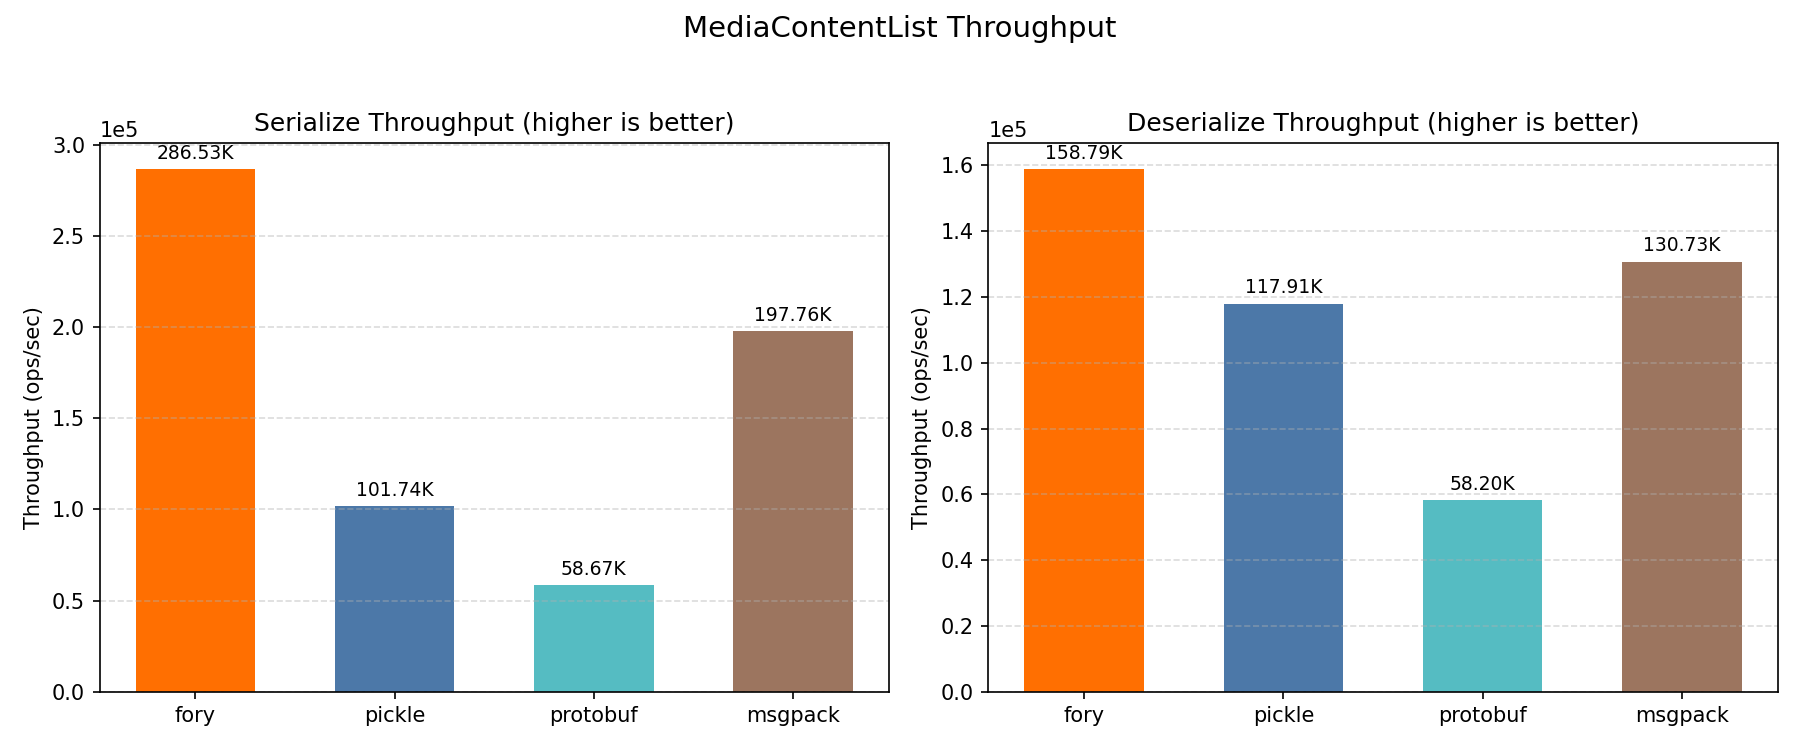
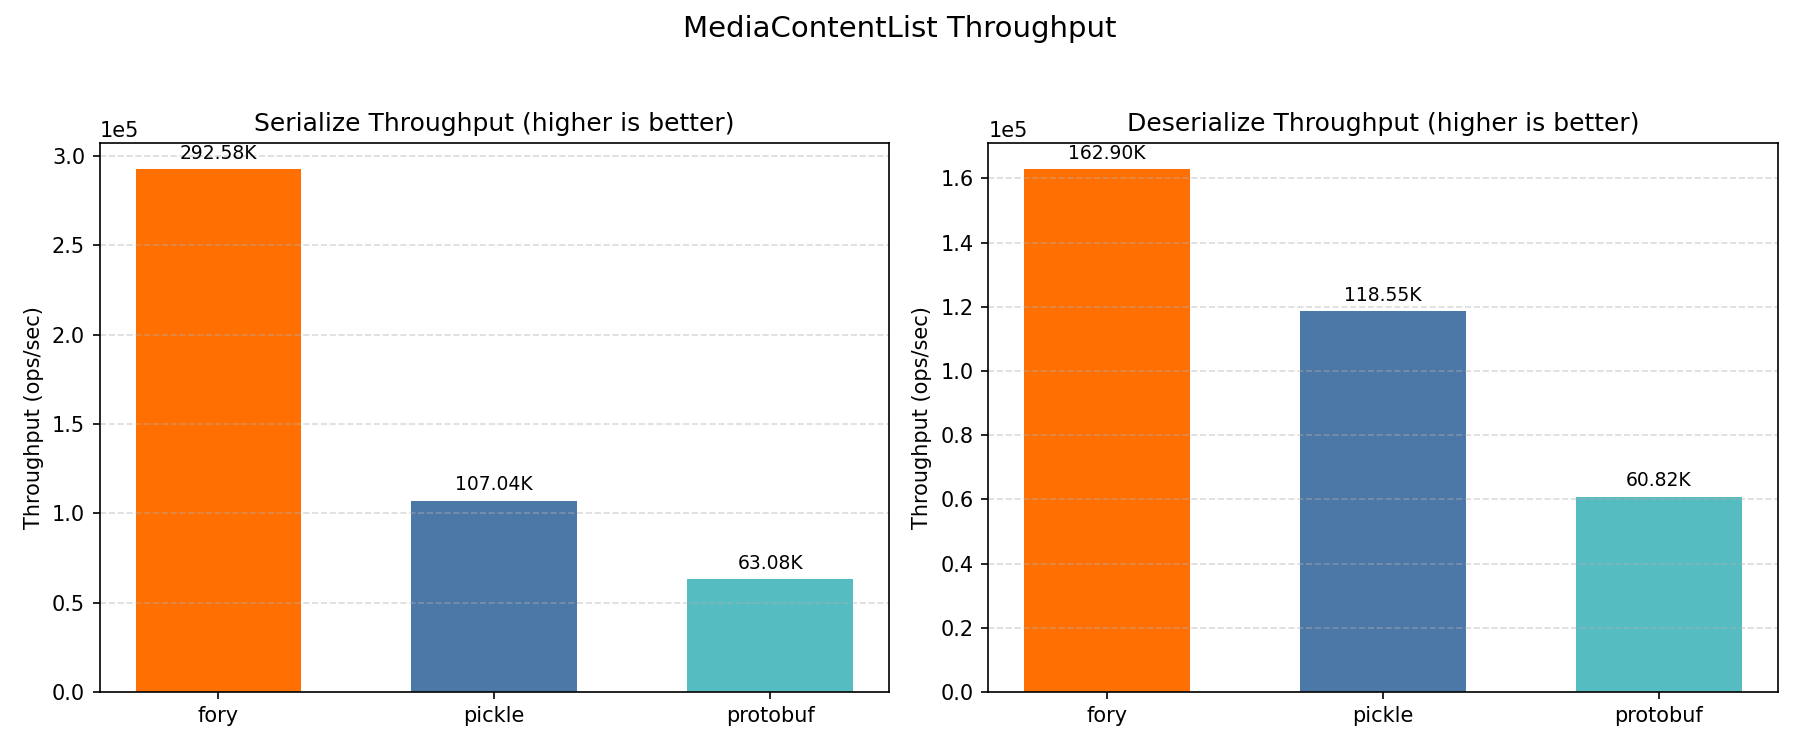
benchmarks: simplify python comparison to fory pickle protobuf

diff --git a/benchmarks/python/benchmark.py b/benchmarks/python/benchmark.py
@@ -21,7 +21,7 @@
 This script mirrors `benchmarks/cpp/benchmark.cc` coverage and benchmarks:
 - Data types: Struct, Sample, MediaContent and corresponding *List variants.
 - Operations: serialize / deserialize.
-- Serializers: fory / pickle / protobuf / msgpack.
+- Serializers: fory / pickle / protobuf.
 
 Results are written as JSON and consumed by `benchmark_report.py`.
 """
@@ -29,7 +29,7 @@ Results are written as JSON and consumed by `benchmark_report.py`.
 from __future__ import annotations
 
 import argparse
-from dataclasses import asdict, dataclass, fields, is_dataclass
+from dataclasses import dataclass
 import json
 import os
 import pickle
@@ -42,11 +42,6 @@ from typing import Any, Callable, Dict, Iterable, List, Tuple
 
 import pyfory
 
-try:
-    import msgpack
-except ImportError:
-    msgpack = None
-
 
 LIST_SIZE = 5
 DATA_TYPE_ORDER = [
@@ -57,7 +52,7 @@ DATA_TYPE_ORDER = [
     "samplelist",
     "mediacontentlist",
 ]
-SERIALIZER_ORDER = ["fory", "pickle", "protobuf", "msgpack"]
+SERIALIZER_ORDER = ["fory", "pickle", "protobuf"]
 OPERATION_ORDER = ["serialize", "deserialize"]
 
 DATA_LABELS = {
@@ -72,7 +67,6 @@ SERIALIZER_LABELS = {
     "fory": "Fory",
     "pickle": "Pickle",
     "protobuf": "Protobuf",
-    "msgpack": "Msgpack",
 }
 
 
@@ -482,34 +476,6 @@ PROTO_CONVERTERS = {
 }
 
 
-def dataclass_to_msgpack_dict(obj: Any) -> Any:
-    if is_dataclass(obj):
-        # Base conversion via dataclasses.asdict as requested.
-        converted = asdict(obj)
-
-        # Explicitly rewrite nested dataclass fields with recursive conversion to ensure
-        # nested objects are represented as dict payloads expected by msgpack.
-        for field in fields(obj):
-            field_value = getattr(obj, field.name)
-            if is_dataclass(field_value):
-                converted[field.name] = dataclass_to_msgpack_dict(field_value)
-            elif isinstance(field_value, list):
-                converted[field.name] = [
-                    dataclass_to_msgpack_dict(item) for item in field_value
-                ]
-            elif isinstance(field_value, dict):
-                converted[field.name] = {
-                    key: dataclass_to_msgpack_dict(value)
-                    for key, value in field_value.items()
-                }
-        return converted
-    if isinstance(obj, list):
-        return [dataclass_to_msgpack_dict(item) for item in obj]
-    if isinstance(obj, dict):
-        return {key: dataclass_to_msgpack_dict(value) for key, value in obj.items()}
-    return obj
-
-
 def build_fory() -> pyfory.Fory:
     fory = pyfory.Fory(xlang=True, compatible=True, ref=False)
     fory.register_type(NumericStruct, type_id=1)
@@ -587,18 +553,6 @@ def protobuf_deserialize(bench_pb2, datatype: str, binary: bytes) -> None:
     from_pb(pb_obj)
 
 
-def msgpack_serialize_dict(obj: Dict[str, Any]) -> None:
-    if msgpack is None:
-        raise RuntimeError("msgpack is not installed")
-    msgpack.packb(obj, use_bin_type=True)
-
-
-def msgpack_deserialize_dict(binary: bytes) -> None:
-    if msgpack is None:
-        raise RuntimeError("msgpack is not installed")
-    msgpack.unpackb(binary, raw=False, strict_map_key=False)
-
-
 def benchmark_name(serializer: str, datatype: str, operation: str) -> str:
     return f"BM_{SERIALIZER_LABELS[serializer]}_{DATA_LABELS[datatype]}_{operation.capitalize()}"
 
@@ -608,7 +562,6 @@ def build_case(
     operation: str,
     datatype: str,
     obj: Any,
-    msgpack_obj: Dict[str, Any],
     *,
     fory: pyfory.Fory,
     bench_pb2,
@@ -630,21 +583,12 @@ def build_case(
         pb_binary = to_pb(bench_pb2, obj).SerializeToString()
         return protobuf_deserialize, (bench_pb2, datatype, pb_binary)
 
-    if serializer == "msgpack":
-        if msgpack is None:
-            raise RuntimeError("msgpack is not installed. Install with: pip install msgpack")
-        if operation == "serialize":
-            return msgpack_serialize_dict, (msgpack_obj,)
-        binary = msgpack.packb(msgpack_obj, use_bin_type=True)
-        return msgpack_deserialize_dict, (binary,)
-
     raise ValueError(f"Unsupported serializer: {serializer}")
 
 
 def calculate_serialized_sizes(
     benchmark_data: Dict[str, Any],
     selected_datatypes: Iterable[str],
-    msgpack_data: Dict[str, Dict[str, Any]],
     *,
     fory: pyfory.Fory,
     bench_pb2,
@@ -659,14 +603,6 @@ def calculate_serialized_sizes(
 
         to_pb, _, _ = PROTO_CONVERTERS[datatype]
         datatype_sizes["protobuf"] = len(to_pb(bench_pb2, obj).SerializeToString())
-
-        if msgpack is not None:
-            msgpack_payload = msgpack_data[datatype]
-            datatype_sizes["msgpack"] = len(
-                msgpack.packb(msgpack_payload, use_bin_type=True)
-            )
-        else:
-            datatype_sizes["msgpack"] = -1
 
         sizes[datatype] = datatype_sizes
     return sizes
@@ -699,7 +635,7 @@ def benchmark_number(base_number: int, datatype: str) -> int:
 
 def parse_args() -> argparse.Namespace:
     parser = argparse.ArgumentParser(
-        description="Comprehensive Fory/Pickle/Protobuf/Msgpack benchmark for Python"
+        description="Comprehensive Fory/Pickle/Protobuf benchmark for Python"
     )
     parser.add_argument(
         "--operation",
@@ -715,7 +651,7 @@ def parse_args() -> argparse.Namespace:
     parser.add_argument(
         "--serializer",
         default="all",
-        help="Comma-separated serializers: fory,pickle,protobuf,msgpack or all",
+        help="Comma-separated serializers: fory,pickle,protobuf or all",
     )
     parser.add_argument(
         "--warmup",
@@ -768,14 +704,7 @@ def main() -> int:
         OPERATION_ORDER if args.operation == "all" else [args.operation]
     )
 
-    if msgpack is None and "msgpack" in selected_serializers:
-        raise RuntimeError("msgpack is not installed. Install with: pip install msgpack")
-
     benchmark_data = create_benchmark_data()
-    msgpack_data = {
-        datatype: dataclass_to_msgpack_dict(obj)
-        for datatype, obj in benchmark_data.items()
-    }
     fory = build_fory()
 
     print(
@@ -792,7 +721,6 @@ def main() -> int:
 
     for datatype in selected_datatypes:
         obj = benchmark_data[datatype]
-        msgpack_obj = msgpack_data[datatype]
         call_number = benchmark_number(args.number, datatype)
         for operation in selected_operations:
             for serializer in selected_serializers:
@@ -804,7 +732,6 @@ def main() -> int:
                     operation,
                     datatype,
                     obj,
-                    msgpack_obj,
                     fory=fory,
                     bench_pb2=bench_pb2,
                 )
@@ -835,7 +762,6 @@ def main() -> int:
     sizes = calculate_serialized_sizes(
         benchmark_data,
         selected_datatypes,
-        msgpack_data,
         fory=fory,
         bench_pb2=bench_pb2,
     )

diff --git a/benchmarks/python/benchmark_report.py b/benchmarks/python/benchmark_report.py
@@ -44,14 +44,12 @@ COLORS = {
     "fory": "#FF6F01",
     "pickle": "#4C78A8",
     "protobuf": "#55BCC2",
-    "msgpack": "#9C755F",
 }
-SERIALIZER_ORDER = ["fory", "pickle", "protobuf", "msgpack"]
+SERIALIZER_ORDER = ["fory", "pickle", "protobuf"]
 SERIALIZER_LABELS = {
     "fory": "fory",
     "pickle": "pickle",
     "protobuf": "protobuf",
-    "msgpack": "msgpack",
 }
 DATATYPE_ORDER = [
     "struct",
@@ -330,11 +328,9 @@ def generate_markdown_report(raw, data, sizes, plot_images, output_dir: Path, pl
     md.append("\n## Benchmark Results\n\n")
     md.append("### Timing Results (nanoseconds)\n\n")
     md.append(
-        "| Datatype | Operation | fory (ns) | pickle (ns) | protobuf (ns) | msgpack (ns) | Fastest |\n"
+        "| Datatype | Operation | fory (ns) | pickle (ns) | protobuf (ns) | Fastest |\n"
     )
-    md.append(
-        "|----------|-----------|-----------|-------------|---------------|--------------|---------|\n"
-    )
+    md.append("|----------|-----------|-----------|-------------|---------------|---------|\n")
 
     for datatype in datatypes:
         for operation in operations:
@@ -356,11 +352,9 @@ def generate_markdown_report(raw, data, sizes, plot_images, output_dir: Path, pl
 
     md.append("\n### Throughput Results (ops/sec)\n\n")
     md.append(
-        "| Datatype | Operation | fory TPS | pickle TPS | protobuf TPS | msgpack TPS | Fastest |\n"
+        "| Datatype | Operation | fory TPS | pickle TPS | protobuf TPS | Fastest |\n"
     )
-    md.append(
-        "|----------|-----------|----------|------------|--------------|-------------|---------|\n"
-    )
+    md.append("|----------|-----------|----------|------------|--------------|---------|\n")
 
     for datatype in datatypes:
         for operation in operations:
@@ -383,8 +377,8 @@ def generate_markdown_report(raw, data, sizes, plot_images, output_dir: Path, pl
 
     if sizes:
         md.append("\n### Serialized Data Sizes (bytes)\n\n")
-        md.append("| Datatype | fory | pickle | protobuf | msgpack |\n")
-        md.append("|----------|------|--------|----------|---------|\n")
+        md.append("| Datatype | fory | pickle | protobuf |\n")
+        md.append("|----------|------|--------|----------|\n")
 
         for datatype in datatypes:
             datatype_sizes = sizes.get(datatype, {})

diff --git a/docs/benchmarks/python/README.md b/docs/benchmarks/python/README.md
@@ -1,6 +1,6 @@
 # Python Benchmark Performance Report
 
-_Generated on 2026-03-03 13:02:52_
+_Generated on 2026-03-03 13:42:38_
 
 ## How to Generate This Report
 
@@ -83,45 +83,45 @@ All plots show throughput (ops/sec); higher is better.
 
 ### Timing Results (nanoseconds)
 
-| Datatype | Operation | fory (ns) | pickle (ns) | protobuf (ns) | msgpack (ns) | Fastest |
-|----------|-----------|-----------|-------------|---------------|--------------|---------|
-| Struct | Serialize | 436.2 | 895.5 | 575.3 | 462.8 | fory |
-| Struct | Deserialize | 536.8 | 953.0 | 761.7 | 417.8 | msgpack |
-| Sample | Serialize | 863.0 | 1791.5 | 2514.6 | 1534.2 | fory |
-| Sample | Deserialize | 1305.4 | 2320.1 | 3947.5 | 1606.9 | fory |
-| MediaContent | Serialize | 1163.5 | 2937.2 | 2973.8 | 1221.2 | fory |
-| MediaContent | Deserialize | 1798.4 | 2909.2 | 3481.2 | 1620.5 | msgpack |
-| StructList | Serialize | 1125.4 | 2852.6 | 3578.3 | 1448.7 | fory |
-| StructList | Deserialize | 1469.5 | 2667.7 | 3790.0 | 1791.1 | fory |
-| SampleList | Serialize | 2992.8 | 5633.1 | 15303.2 | 6482.0 | fory |
-| SampleList | Deserialize | 6015.3 | 8346.1 | 20112.7 | 8273.3 | fory |
-| MediaContentList | Serialize | 3490.1 | 9829.4 | 17044.7 | 5056.6 | fory |
-| MediaContentList | Deserialize | 6297.6 | 8481.2 | 17182.2 | 7649.3 | fory |
+| Datatype | Operation | fory (ns) | pickle (ns) | protobuf (ns) | Fastest |
+|----------|-----------|-----------|-------------|---------------|---------|
+| Struct | Serialize | 417.9 | 868.9 | 548.9 | fory |
+| Struct | Deserialize | 516.1 | 910.6 | 742.4 | fory |
+| Sample | Serialize | 828.1 | 1663.5 | 2383.7 | fory |
+| Sample | Deserialize | 1282.4 | 2296.3 | 3992.7 | fory |
+| MediaContent | Serialize | 1139.9 | 2859.7 | 2867.1 | fory |
+| MediaContent | Deserialize | 1719.5 | 2854.3 | 3236.1 | fory |
+| StructList | Serialize | 1009.1 | 2630.6 | 3281.6 | fory |
+| StructList | Deserialize | 1387.2 | 2651.9 | 3547.9 | fory |
+| SampleList | Serialize | 2828.3 | 5541.0 | 15256.6 | fory |
+| SampleList | Deserialize | 5043.4 | 8144.7 | 18912.5 | fory |
+| MediaContentList | Serialize | 3417.9 | 9341.9 | 15853.2 | fory |
+| MediaContentList | Deserialize | 6138.7 | 8435.3 | 16442.6 | fory |
 
 ### Throughput Results (ops/sec)
 
-| Datatype | Operation | fory TPS | pickle TPS | protobuf TPS | msgpack TPS | Fastest |
-|----------|-----------|----------|------------|--------------|-------------|---------|
-| Struct | Serialize | 2,292,488 | 1,116,754 | 1,738,244 | 2,160,781 | fory |
-| Struct | Deserialize | 1,862,990 | 1,049,336 | 1,312,890 | 2,393,315 | msgpack |
-| Sample | Serialize | 1,158,735 | 558,207 | 397,674 | 651,801 | fory |
-| Sample | Deserialize | 766,038 | 431,015 | 253,323 | 622,315 | fory |
-| MediaContent | Serialize | 859,477 | 340,462 | 336,268 | 818,835 | fory |
-| MediaContent | Deserialize | 556,050 | 343,741 | 287,254 | 617,109 | msgpack |
-| StructList | Serialize | 888,557 | 350,555 | 279,466 | 690,283 | fory |
-| StructList | Deserialize | 680,506 | 374,859 | 263,850 | 558,323 | fory |
-| SampleList | Serialize | 334,133 | 177,523 | 65,346 | 154,273 | fory |
-| SampleList | Deserialize | 166,244 | 119,817 | 49,720 | 120,871 | fory |
-| MediaContentList | Serialize | 286,529 | 101,735 | 58,669 | 197,760 | fory |
-| MediaContentList | Deserialize | 158,790 | 117,908 | 58,200 | 130,731 | fory |
+| Datatype | Operation | fory TPS | pickle TPS | protobuf TPS | Fastest |
+|----------|-----------|----------|------------|--------------|---------|
+| Struct | Serialize | 2,393,086 | 1,150,946 | 1,821,982 | fory |
+| Struct | Deserialize | 1,937,707 | 1,098,170 | 1,346,915 | fory |
+| Sample | Serialize | 1,207,542 | 601,144 | 419,511 | fory |
+| Sample | Deserialize | 779,789 | 435,489 | 250,460 | fory |
+| MediaContent | Serialize | 877,300 | 349,688 | 348,780 | fory |
+| MediaContent | Deserialize | 581,563 | 350,354 | 309,018 | fory |
+| StructList | Serialize | 991,017 | 380,145 | 304,732 | fory |
+| StructList | Deserialize | 720,901 | 377,081 | 281,855 | fory |
+| SampleList | Serialize | 353,574 | 180,473 | 65,545 | fory |
+| SampleList | Deserialize | 198,280 | 122,780 | 52,875 | fory |
+| MediaContentList | Serialize | 292,578 | 107,045 | 63,079 | fory |
+| MediaContentList | Deserialize | 162,902 | 118,550 | 60,818 | fory |
 
 ### Serialized Data Sizes (bytes)
 
-| Datatype | fory | pickle | protobuf | msgpack |
-|----------|------|--------|----------|---------|
-| Struct | 72 | 126 | 61 | 55 |
-| Sample | 517 | 793 | 375 | 634 |
-| MediaContent | 470 | 586 | 301 | 480 |
-| StructList | 205 | 420 | 315 | 289 |
-| SampleList | 1810 | 2539 | 1890 | 3184 |
-| MediaContentList | 1756 | 1377 | 1520 | 2421 |
+| Datatype | fory | pickle | protobuf |
+|----------|------|--------|----------|
+| Struct | 72 | 126 | 61 |
+| Sample | 517 | 793 | 375 |
+| MediaContent | 470 | 586 | 301 |
+| StructList | 205 | 420 | 315 |
+| SampleList | 1810 | 2539 | 1890 |
+| MediaContentList | 1756 | 1377 | 1520 |

diff --git a/benchmarks/python/README.md b/benchmarks/python/README.md
@@ -6,7 +6,7 @@ This directory contains two benchmark entrypoints:
    - `Struct`, `Sample`, `MediaContent`
    - `StructList`, `SampleList`, `MediaContentList`
    - operations: `serialize`, `deserialize`
-   - serializers: `fory`, `pickle`, `protobuf`, `msgpack`
+   - serializers: `fory`, `pickle`, `protobuf`
 2. `fory_benchmark.py` (legacy): existing CPython microbench script kept intact.
 
 ## Quick Start (Comprehensive Suite)
@@ -42,7 +42,7 @@ cd benchmarks/python
 Supported values:
 
 - `--data`: `struct,sample,mediacontent,structlist,samplelist,mediacontentlist`
-- `--serializer`: `fory,pickle,protobuf,msgpack`
+- `--serializer`: `fory,pickle,protobuf`
 - `--operation`: `all|serialize|deserialize`
 
 ## Legacy Script (Unchanged)
@@ -60,4 +60,4 @@ For its original options and behavior, refer to `python fory_benchmark.py --help
 
 - `pyfory` must be installed in your current Python environment.
 - `protoc` is required by `run.sh` to generate `bench_pb2.py`.
-- `msgpack` benchmarks run directly on prebuilt dict payloads derived from dataclasses.
+- `protobuf` benchmarks include dataclass <-> protobuf conversion in the timed path.

diff --git a/AGENTS.md b/AGENTS.md
@@ -25,6 +25,7 @@ While working on Fory, please remember:
 - **Primary references**: `README.md`, `CONTRIBUTING.md`, `docs/guide/DEVELOPMENT.md`, and language guides under `docs/guide/`.
 - **Protocol changes**: Read and update the relevant specs in `docs/specification/**` and align cross-language tests.
 - **Docs publishing**: Updates under `docs/guide/` and `docs/benchmarks/` are synced to https://github.com/apache/fory-site; other website content should be changed in that repo.
+- **Benchmark docs refresh is mandatory**: When any benchmark logic/script/config or compared serializer set changes, rerun the relevant benchmarks and refresh corresponding artifacts under `docs/benchmarks/**` (report + plots) before finalizing.
 - **Debugging docs**: C++ debugging guidance lives in `docs/cpp_debug.md`.
 - **Conflicts**: If instructions conflict, follow the most specific module docs and call out the conflict in your response.
 
